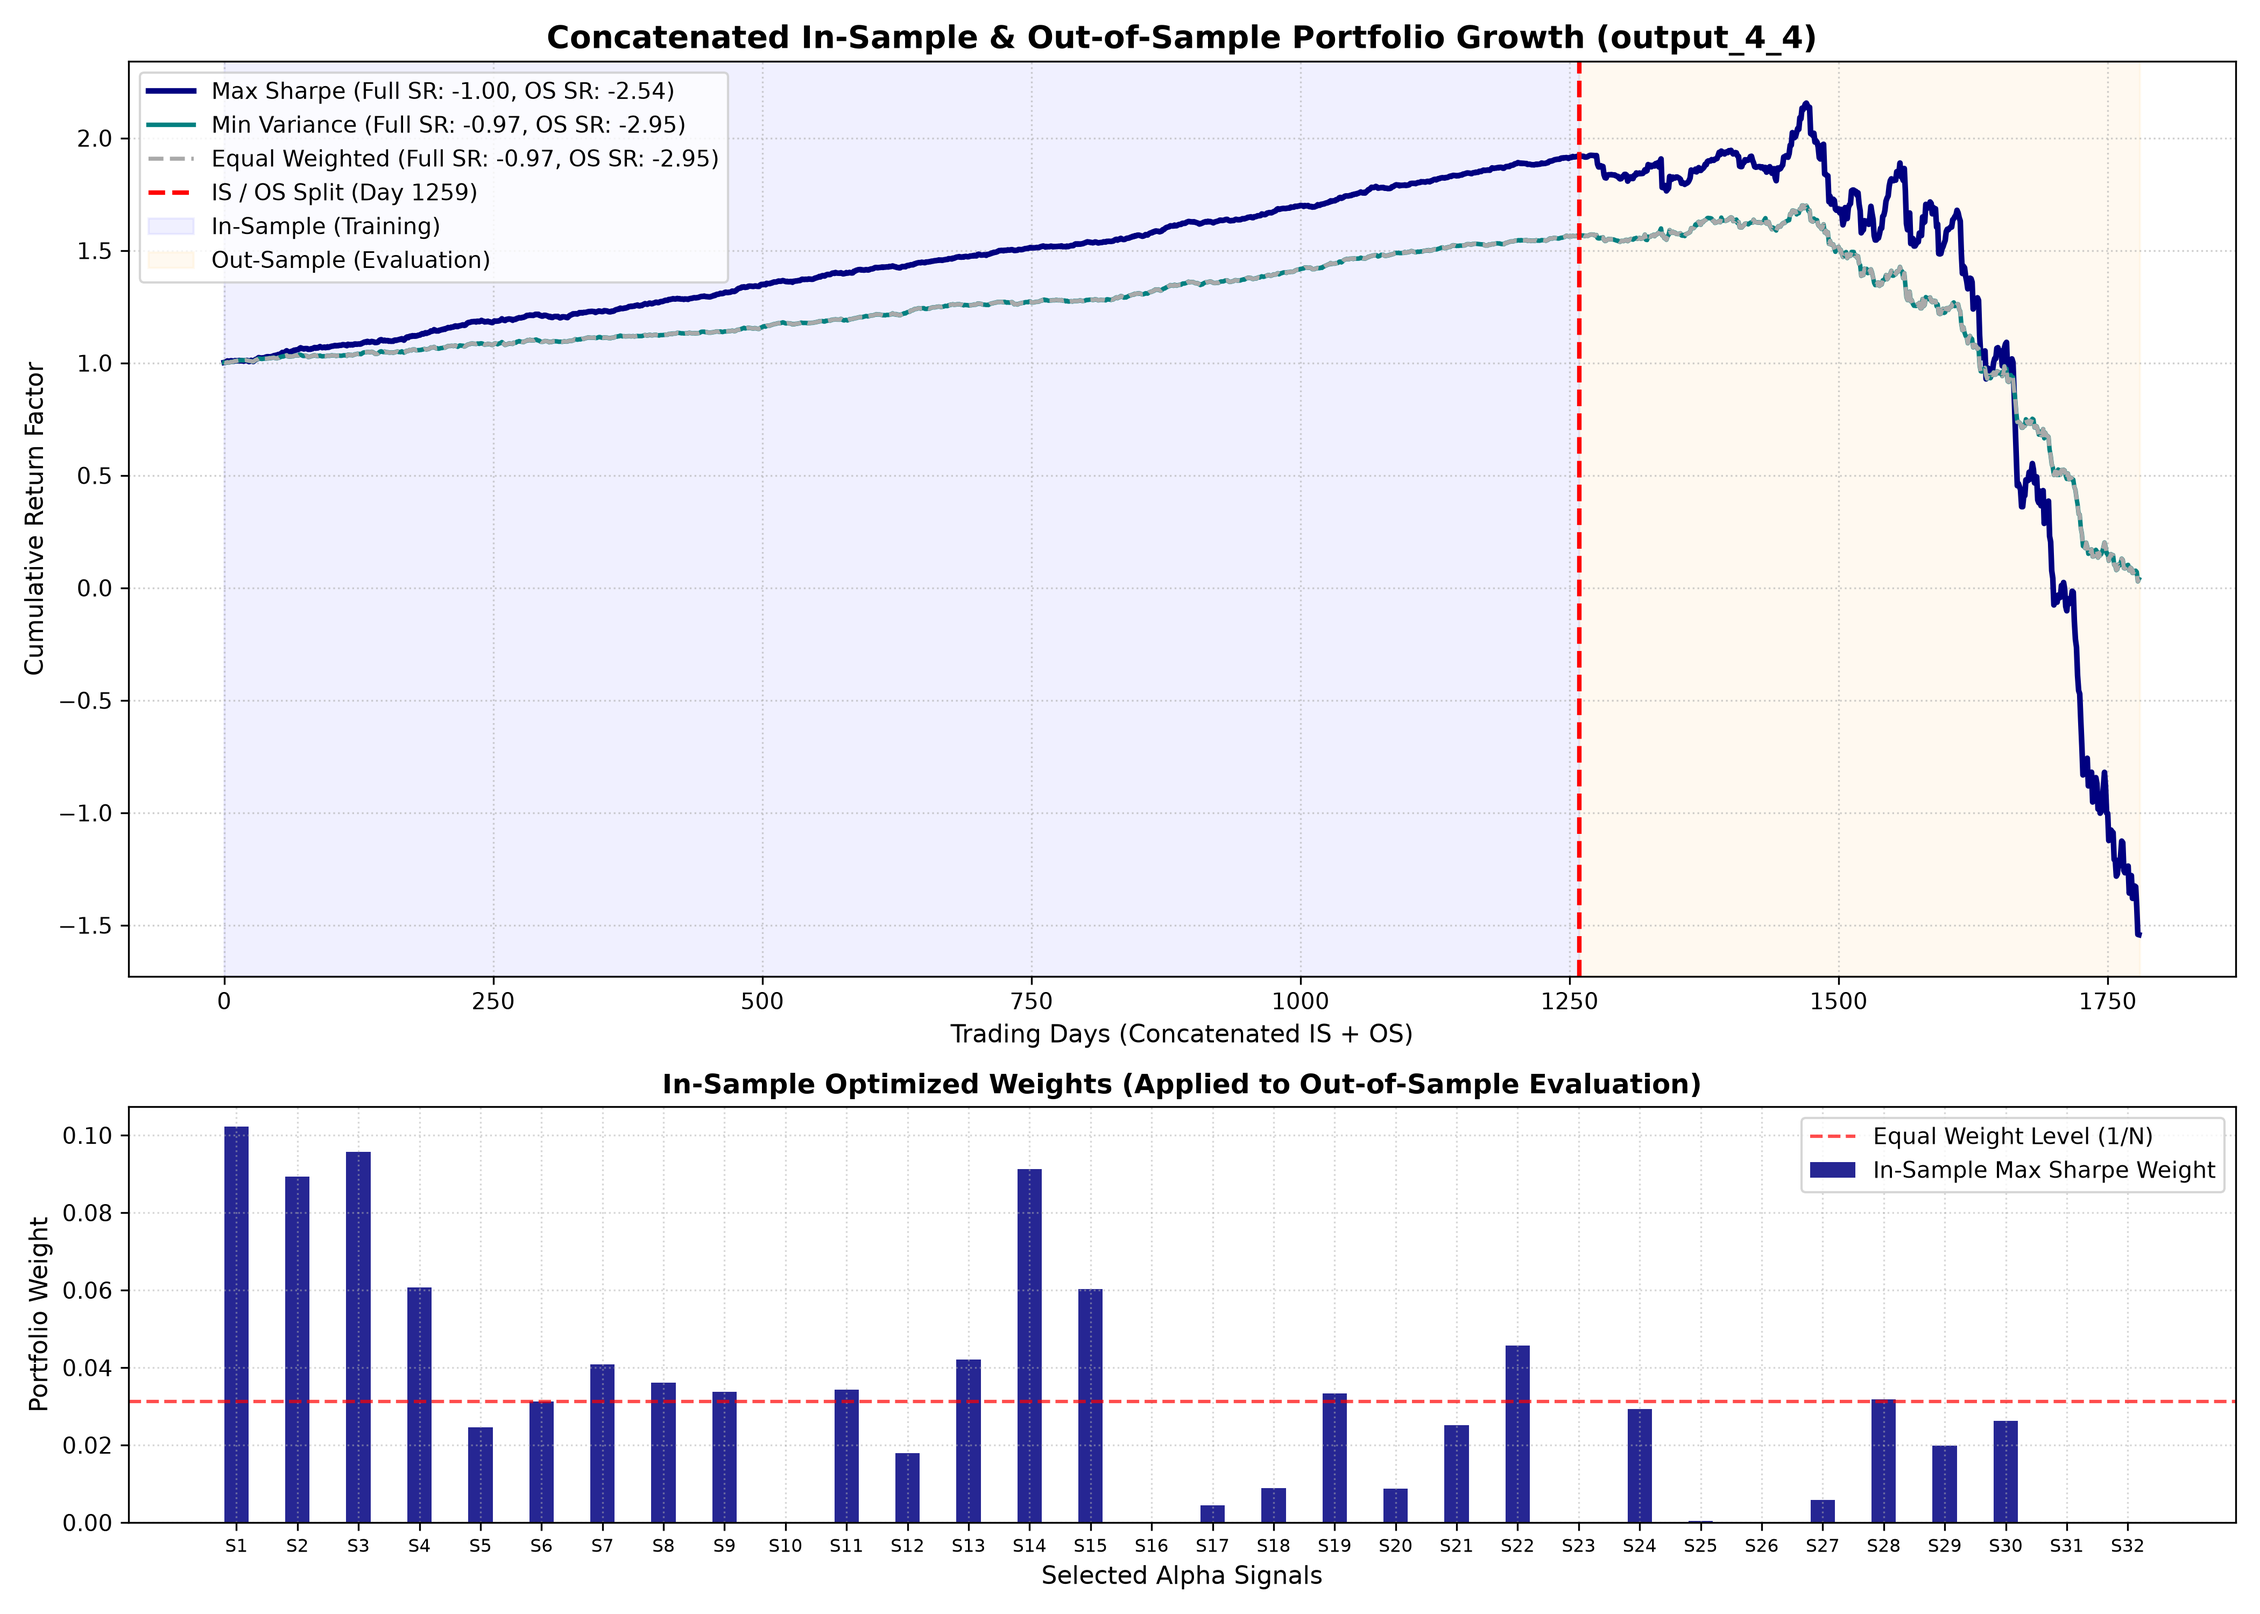
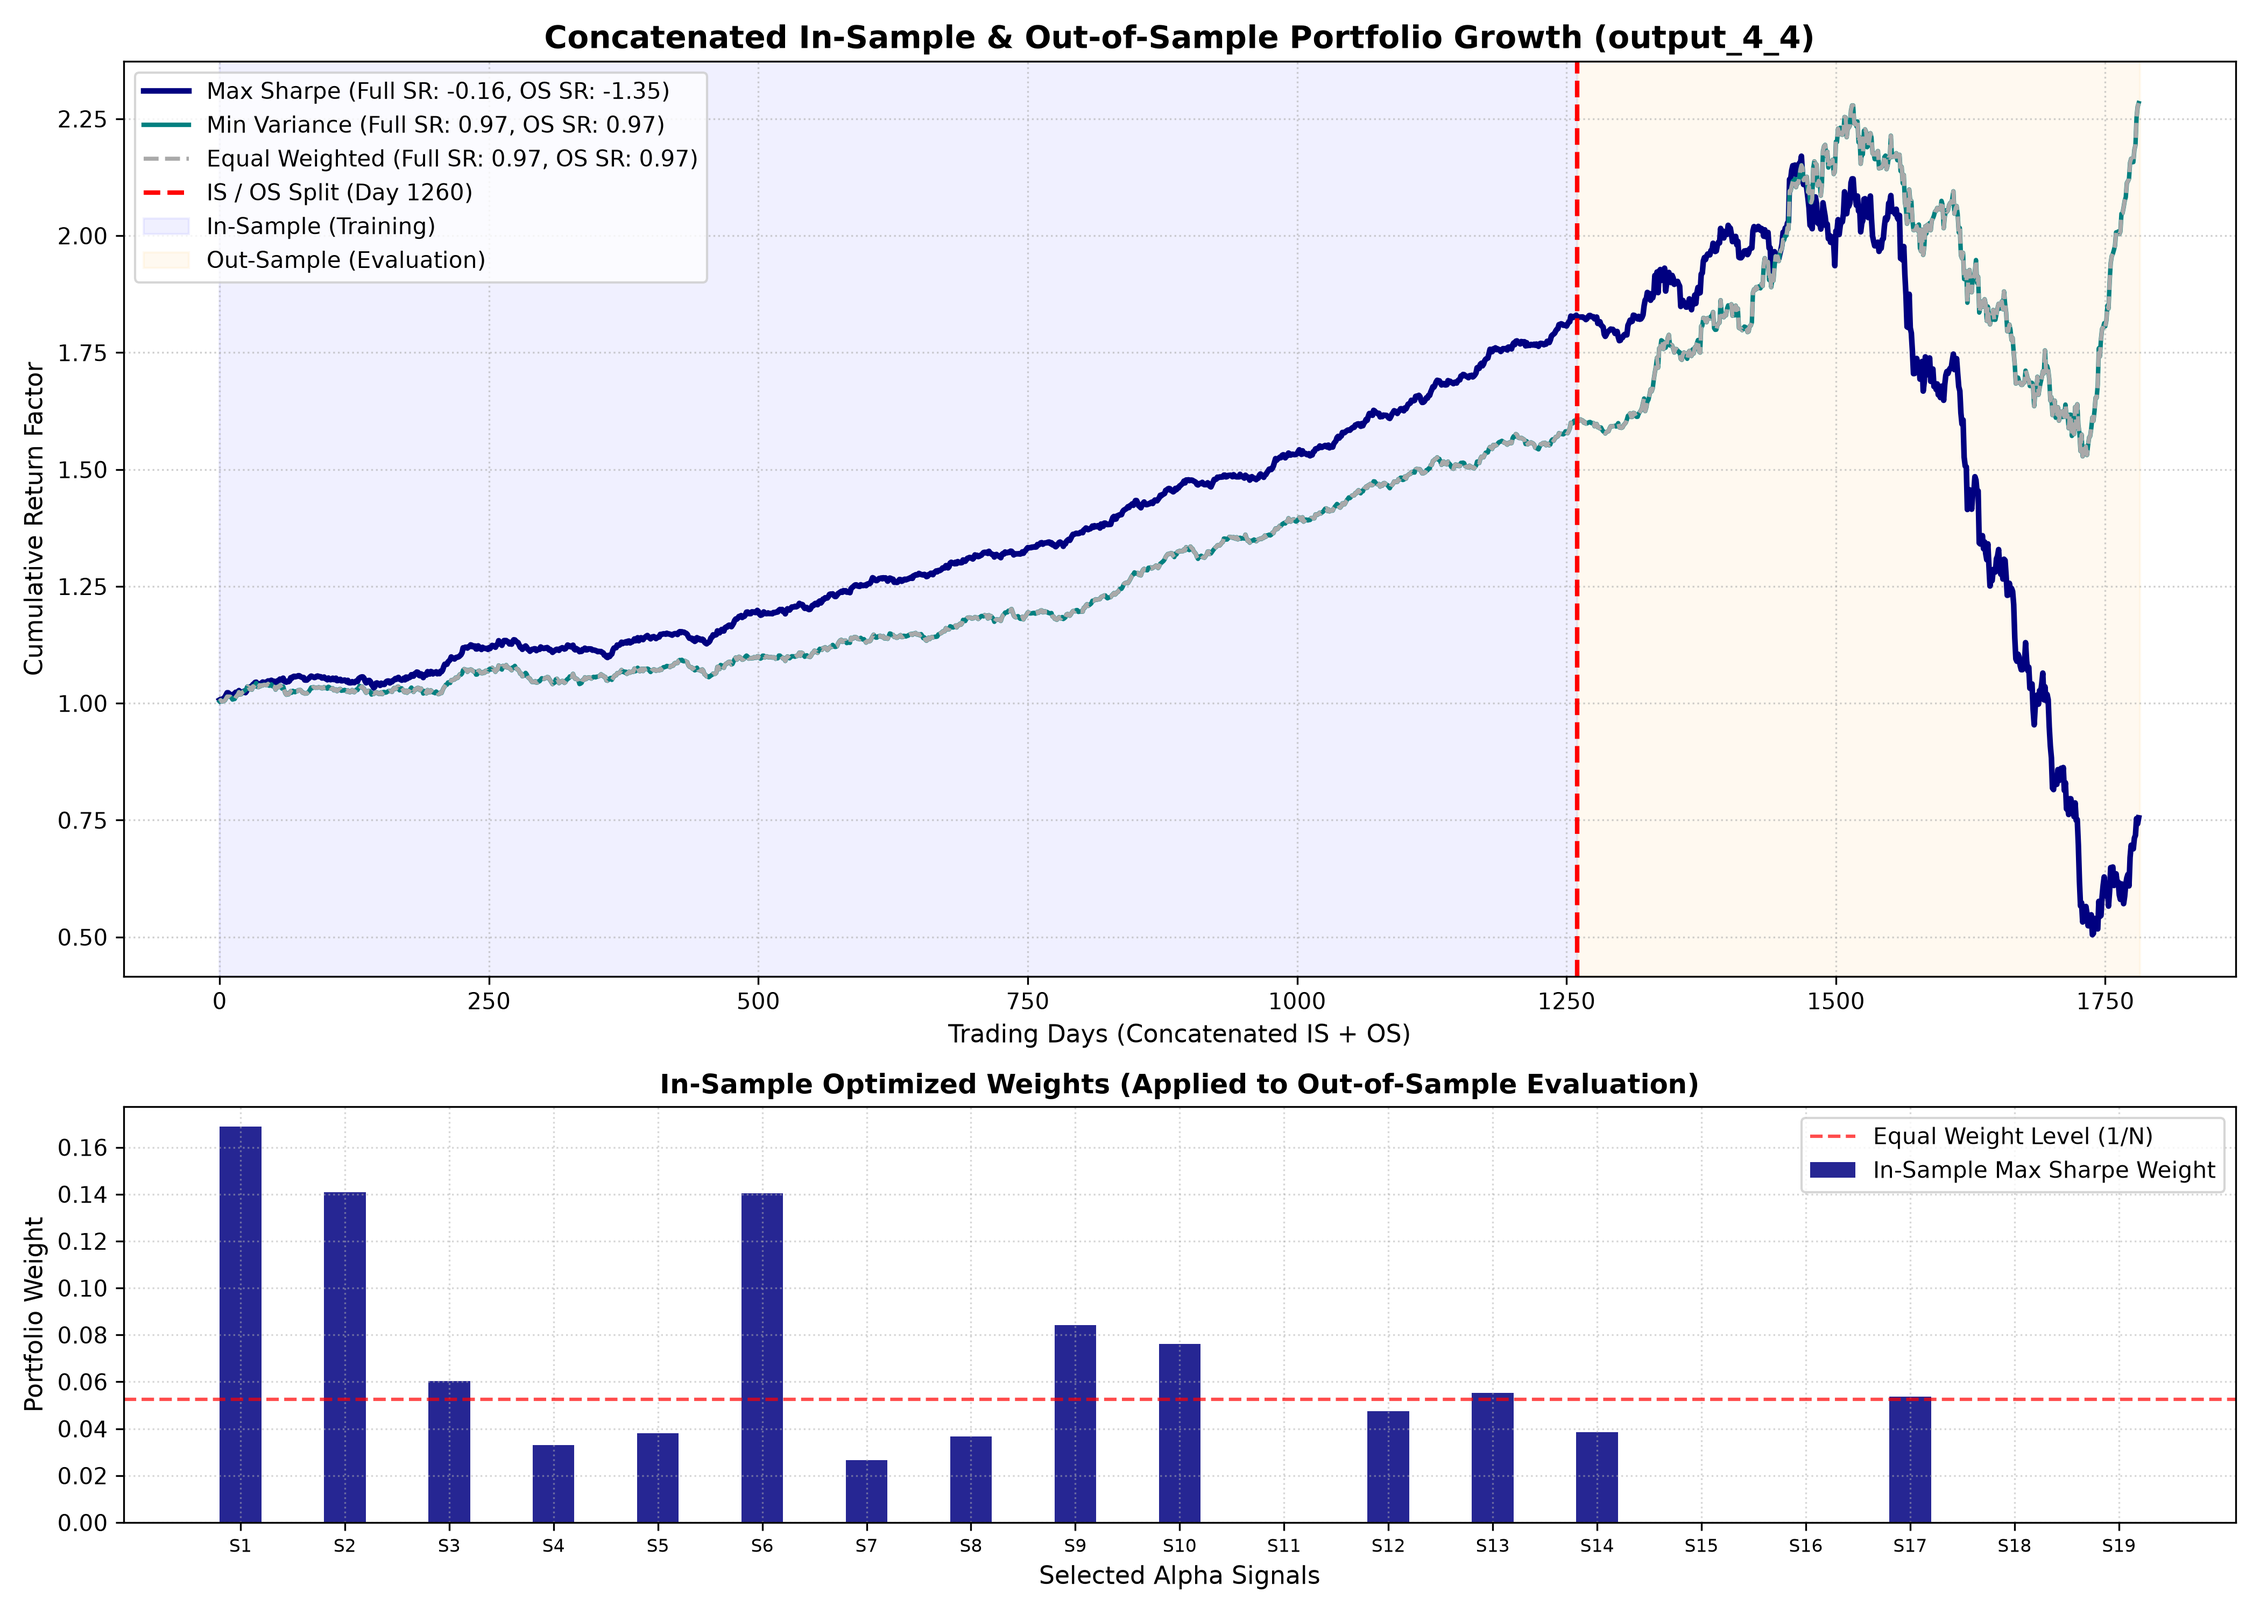
tautology filter

diff --git a/runtime/src/backtest.rs b/runtime/src/backtest.rs
@@ -35,18 +35,34 @@ impl BasicBacktest {
         }
     }
     fn ls_neutralize(position: &Tensor) -> Tensor {
+        let max_pos = 0.01; // 1% max position limit per stock
+        let iterations = 3;
+
         let mean = position.nanmean(Some(&[1][..]), true, Kind::Float);
-        let demeaned = (position - mean).nan_to_num(0.0, 0.0, 0.0);
-        let pos = demeaned.relu();
-        let neg = (-&demeaned).relu();
+        let mut current = (position - mean).nan_to_num(0.0, 0.0, 0.0);
 
-        let sum_pos = pos.sum_dim_intlist(Some(&[1][..]), true, Kind::Float) + 1e-10;
-        let sum_neg = neg.sum_dim_intlist(Some(&[1][..]), true, Kind::Float) + 1e-10;
+        for _ in 0..iterations {
+            let pos = current.relu();
+            let neg = (-&current).relu();
 
-        let scaled_pos = &pos / &sum_pos;
-        let scaled_neg = &neg / &sum_neg;
+            let sum_pos = pos.sum_dim_intlist(Some(&[1][..]), true, Kind::Float) + 1e-10;
+            let sum_neg = neg.sum_dim_intlist(Some(&[1][..]), true, Kind::Float) + 1e-10;
 
-        scaled_pos - scaled_neg
+            // Side-by-side scaling and clamp max position to 1%
+            let scaled_pos = (&pos / &sum_pos).clamp(0.0, max_pos);
+            let scaled_neg = (&neg / &sum_neg).clamp(0.0, max_pos);
+
+            let new_sum_pos = scaled_pos.sum_dim_intlist(Some(&[1][..]), true, Kind::Float) + 1e-10;
+            let new_sum_neg = scaled_neg.sum_dim_intlist(Some(&[1][..]), true, Kind::Float) + 1e-10;
+
+            // Re-normalize long/short arms after clipping
+            let final_pos = &scaled_pos / &new_sum_pos;
+            let final_neg = &scaled_neg / &new_sum_neg;
+
+            current = final_pos - final_neg;
+        }
+
+        current
     }
 
     pub fn calc_returns(&self, position: &Tensor) -> Tensor {

diff --git a/stdlib/src/op_subtract.rs b/stdlib/src/op_subtract.rs
@@ -1,11 +1,18 @@
 use crate::{OperatorSpec, types::Signal};
+use tch::Tensor;
 
 pub static OP_SUBTRACT: OperatorSpec = OperatorSpec {
     name: "subtract",
     inputs: &[Signal::DataFrame(None), Signal::DataFrame(None)],
     output_shape: Signal::DataFrame(None),
     execute: |args| match (&args[0], &args[1]) {
-        (Signal::DataFrame(Some(a)), Signal::DataFrame(Some(b))) => Signal::DataFrame(Some(a - b)),
+        (Signal::DataFrame(Some(a)), Signal::DataFrame(Some(b))) => {
+            // O(1) Pointer comparison: checks if references or underlying data buffers match (< 1 ns)
+            if std::ptr::eq(a, b) || a.data_ptr() == b.data_ptr() {
+                return Signal::DataFrame(Some(Tensor::zeros_like(a)));
+            }
+            Signal::DataFrame(Some(a - b))
+        }
         _ => panic!("subtract expected two DataFrames"),
     },
 };

diff --git a/stdlib/src/op_divide.rs b/stdlib/src/op_divide.rs
@@ -1,4 +1,5 @@
 use crate::{OperatorSpec, types::Signal};
+use tch::Tensor;
 
 pub static OP_DIVIDE: OperatorSpec = OperatorSpec {
     name: "divide",
@@ -6,6 +7,10 @@ pub static OP_DIVIDE: OperatorSpec = OperatorSpec {
     output_shape: Signal::DataFrame(None),
     execute: |args| match (&args[0], &args[1]) {
         (Signal::DataFrame(Some(a)), Signal::DataFrame(Some(b))) => {
+            // O(1) Pointer comparison: checks if references or underlying data buffers match (< 1 ns)
+            if std::ptr::eq(a, b) || a.data_ptr() == b.data_ptr() {
+                return Signal::DataFrame(Some(Tensor::ones_like(a)));
+            }
             let result = a / b;
             let result = result.nan_to_num(Some(0.0), Some(1e9), Some(-1e9));
             Signal::DataFrame(Some(result))
